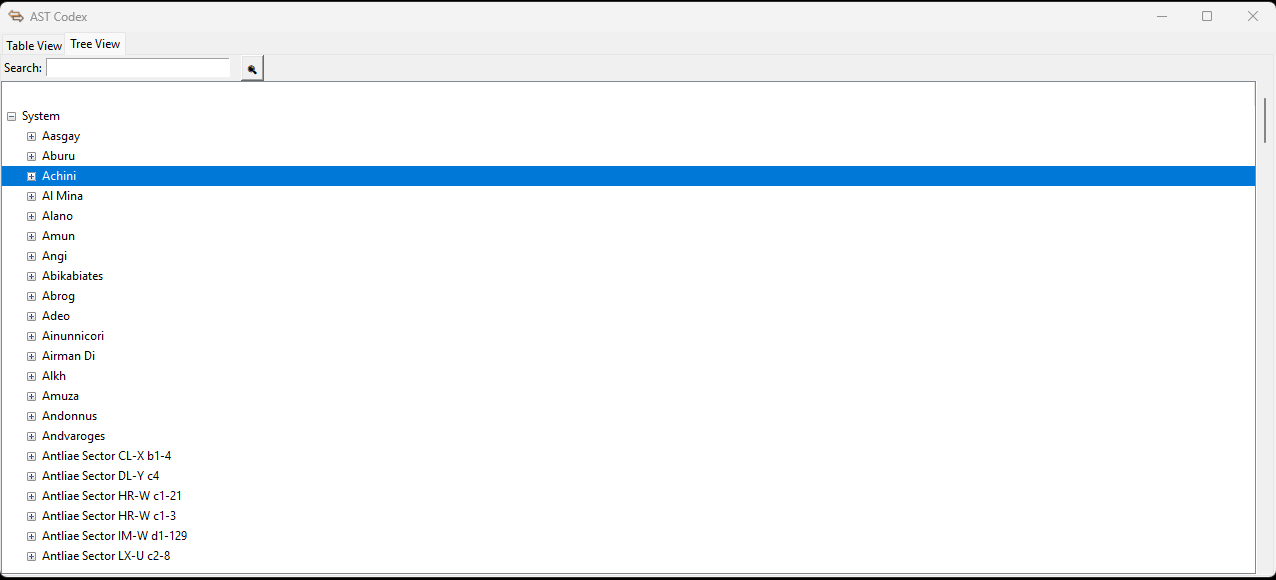
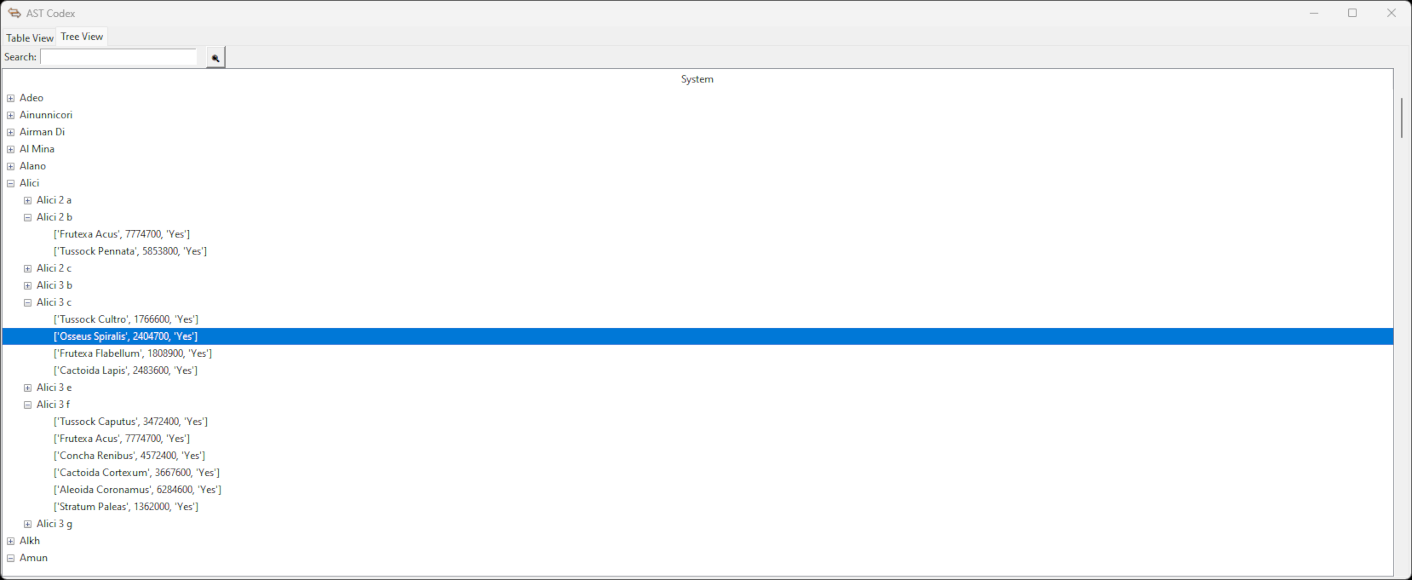
ready for pull request

Changed region(s): [[0.0, 0.0, 1.0, 1.0], [0.4585, 0.1241, 0.5196, 0.1552]]

diff --git a/load.py b/load.py
@@ -1,4 +1,4 @@
-"""Artemis Scanner Tracker v0.3.2 dev by Balvald."""
+"""Artemis Scanner Tracker v0.3.2 by Balvald."""
 
 import json
 import logging
@@ -32,7 +32,7 @@ logger = logging.getLogger(f"{appname}.{os.path.basename(os.path.dirname(__file_
 
 PLUGIN_NAME = "AST"
 
-AST_VERSION = "v0.3.2-dev"
+AST_VERSION = "v0.3.2"
 
 AST_REPO = "Balvald/ArtemisScannerTracker"
 

diff --git a/README.md b/README.md
@@ -18,14 +18,14 @@ You will need to re-start EDMC if EDMC was open while you installed the plugin. 
 > best for biology ever.  13/10.  
 >     — CMDR SlippyCheeze
 
-## New in v0.3.1
+## New in v0.3.2
 
-- Bugfix: Analyse Events that do not have any Species get ignored while scanning journals for historic data.
-    - _Was probably because of some plant from Null Island._
-- Bugfix: The AST Codex now properly sorts the entries by value if the CMDR wishes so.
-    - _Someone sorted numbers alphabetically and didn't notice._ :eyes:
-- Bugfix: The AST Codex now opens properly even when there is no data so show.
-    - _The AST Codex window finally overcame its anxiety to turn up empty-handed._
+- Bugfix: Clean install of AST now properly recognise any performed scan.
+- Bugfix: AST Codex induced EDMC crashes are fixed now.
+    - _You can press that AST Codex button as often and as fast as you like._
+- Bugfix: The Search button from the Tree View now reads from the right rext field.
+- Changed Feature: The Tree View from the AST Codex window now has all systems as top level elements that expand into the different planets and finally the individual signals.
+    - _This is much better now._
 - New Feature: AST Codex window now has tabs with a table and a hierarchical tree view (which will undergo some changes)
 
 ## Features
